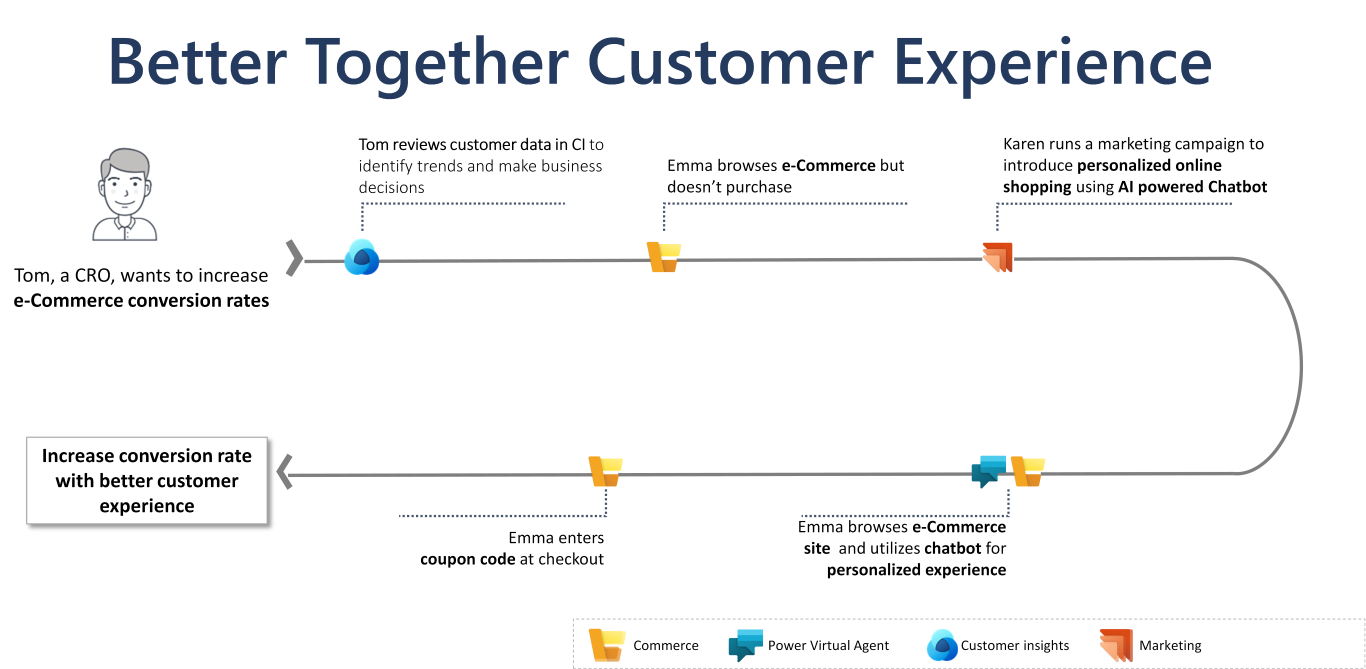
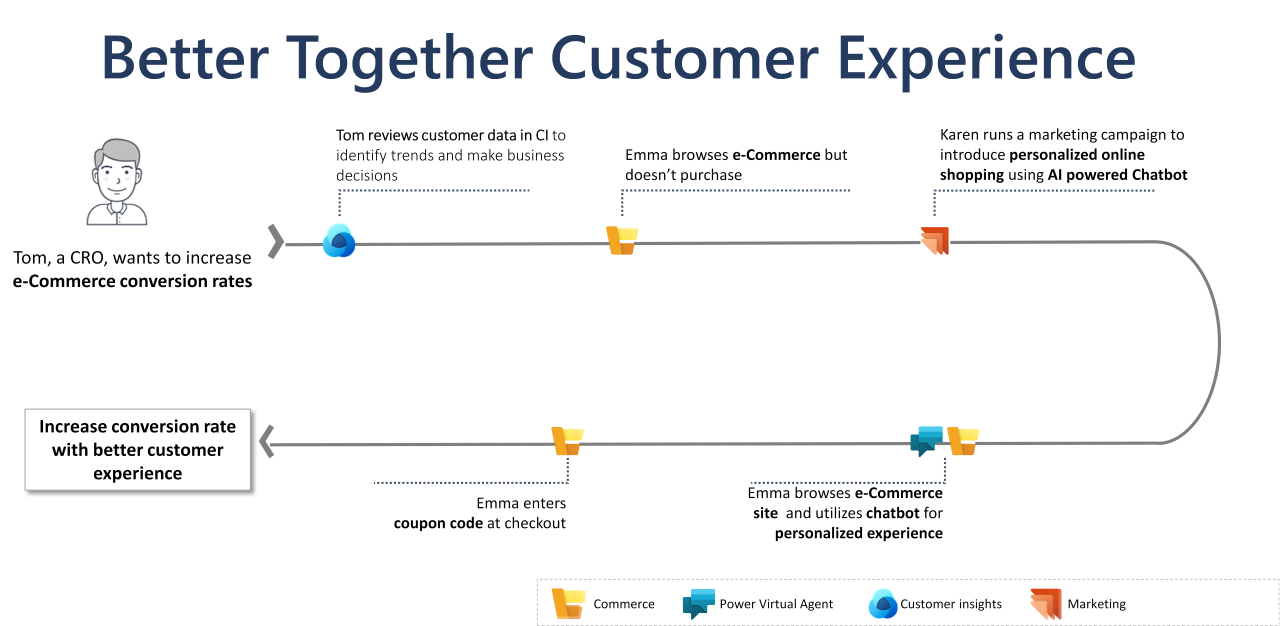
Final flow image change

diff --git a/Commerce/BetterTogether/README.md b/Commerce/BetterTogether/README.md
@@ -31,8 +31,6 @@ This solution combines Dynamics 365 Customer insights, Dynamics 365 Marketing, P
 
 ![Better Together Customer Experience Flow](BetterTogetherFlow.png)
 
-![Better Together Customer Experience Flow](BetterTogetherFlow-small.png)
-
 The Chief Revenue officer (CRO) reviews the sales numbers after the first month of site launch and they are not as high as he was expecting. He connects with his sales analyst who leverages the Dynamics Customer Insights tools to dig into the data to understand what could be happening.
 
 Their hypothesis is that the site may not be providing enough detailed information about these products to allow a customer to feel confident in their purchases.
